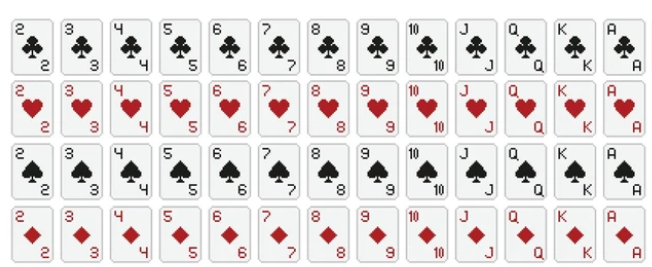
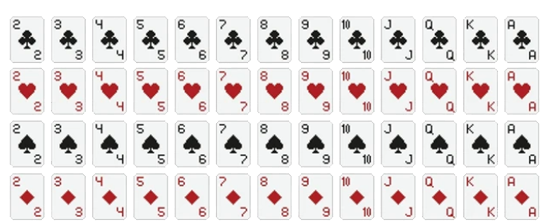
How to Screen fully functional

diff --git a/src/howto.cpp b/src/howto.cpp
@@ -1,0 +1,57 @@
+#include "../header/howto.h"
+HowTo::HowTo()
+{
+    mBackDrop.setSize(sf::Vector2f(1280.f, 720.f));
+    if (!mBackground.loadFromFile("assets/testhow.png"))
+    {
+        std::cout << "Error opening background file\n";
+        exit(2);
+    }
+
+    mBackDrop.setTexture(&mBackground);
+    if (!mFont.loadFromFile("assets/VintageCharm-Regular.otf"))
+    {
+        std::cout<<"Error opening file\n";
+        exit(2);
+    }
+    mRules.setFont(mFont);
+    //choose the font size based on button size (I choose half)
+    mRules.setCharacterSize(50);
+    // //set label
+    mRules.setString("Rules for Galactic Gambit!");
+    mRules.setPosition({325,75});
+
+    mValues.setFont(mFont);
+    //choose the font size based on button size (I choose half)
+    mValues.setCharacterSize(35);
+    // //set label
+    mValues.setString("1. The Dealer Draws on 16 and Stands on 17\n2. If you run out of space money, GAME OVER\n3. Get as close to 21 without going over.\n4. Beat the Dealer and YOU WIN\n5. Card Values Found Below");
+    mValues.setPosition({275, 150});
+
+    mBack.setText("Go Back");
+    mBack.setPosition({1200, 610});
+    mBack.setSize({150,150});
+    mBack.setTextSize(30);
+    mBack.setColorTextNormal(sf::Color::White);
+
+
+}
+State HowTo::handleInput(sf::Event& e, sf::RenderWindow& window)
+{
+    if (mBack.handleInput(e, window))
+    {
+        return welcome;
+    }
+    return howTo;
+}
+void HowTo::update()
+{
+    mBack.update();
+}
+void HowTo::render(sf::RenderWindow& window)
+{
+    window.draw(mBackDrop);
+    window.draw(mBack);
+    window.draw(mRules);
+    window.draw(mValues);
+}

diff --git a/src/game.cpp b/src/game.cpp
@@ -27,6 +27,10 @@ void Game::handleInput(sf::RenderWindow& window)
 //std::cout<<"Game::handleInput case game" <<std::endl;
             mGameState = mGame.handleInput(event, window);
             break;
+        case howTo:
+            mGameState = mHowTo.handleInput(event, window);
+            break;
+
         case results:
 //std::cout<<"Game::handleInput case result" <<std::endl;
             mGameState=mResults.handleInput(event, window);
@@ -56,6 +60,10 @@ void Game::update(double elapsedTime, sf::RenderWindow& window)
 //std::cout<<"Game::update case result" <<std::endl;
             mResults.update();
             break;
+        case howTo:
+            mHowTo.update();
+            break;
+
         case quit:
 //std::cout<<"Game::update case quit" <<std::endl;
             window.close();
@@ -79,6 +87,9 @@ void Game::render(sf::RenderWindow& window)
             break;
         case results:
             mResults.render(window);
+            break;
+        case howTo:
+            mHowTo.render(window);
             break;
         case quit:
             break;          

diff --git a/src/button.cpp b/src/button.cpp
@@ -199,3 +199,21 @@ void Button::draw(sf::RenderTarget& target,sf::RenderStates states) const
     target.draw(mButton, states);
     target.draw(mText, states);
 }
+
+/**
+ * @brief function to change text size of button
+ * 
+ * @param size 
+ */
+void Button::setTextSize (int size)
+{
+    mText.setCharacterSize(size);
+    mText.setOrigin(mText.getGlobalBounds().width/2, mText.getGlobalBounds().height/2);
+    //set position at the middle of the button
+    //unsigned int fontSize = mButton.getGlobalBounds().height/2;
+    mText.setPosition
+    (
+        mPosition.x,
+        mPosition.y + mButton.getGlobalBounds().height / 2.f + 5.f
+    );
+}

diff --git a/header/howto.h b/header/howto.h
@@ -1,0 +1,24 @@
+#ifndef HOWTO_H
+#define HOWTO_H
+#include "states.h"
+#include "button.h"
+
+class HowTo
+{
+public:
+    HowTo();
+    State handleInput(sf::Event& e,  sf::RenderWindow& mWindow);
+    void update();
+    void render(sf::RenderWindow& mWindow);
+
+
+private:
+    sf::Text mRules;
+    sf::Text mValues;
+    sf::RectangleShape mBackDrop;
+    sf::Font mFont;
+    Button mBack; 
+    sf::Texture mBackground;
+};
+
+#endif

diff --git a/header/button.h b/header/button.h
@@ -26,6 +26,7 @@ public:
     void setColor(sf::Color btnColor);
     //change button label to s (what else needs to be changed?)
     void setText(std::string s);
+    void setTextSize (int size);
     void setColorTextNormal(sf::Color textNormalColor){mTextNormal = textNormalColor;};
     void setColorTextHover(sf::Color textHoverColor){mTextHover = textHoverColor;};
 

diff --git a/header/game.h b/header/game.h
@@ -11,6 +11,7 @@
 #ifndef GAME_H
 #define GAME_H
 #include "states.h"
+#include "howto.h"
 #include "welcome.h"
 #include "play.h"
 #include "results.h"
@@ -35,6 +36,7 @@ private:
     Welcome mWelcomeScreen;
     Play mGame;
     Results mResults;
+    HowTo mHowTo;
    
 };
 
